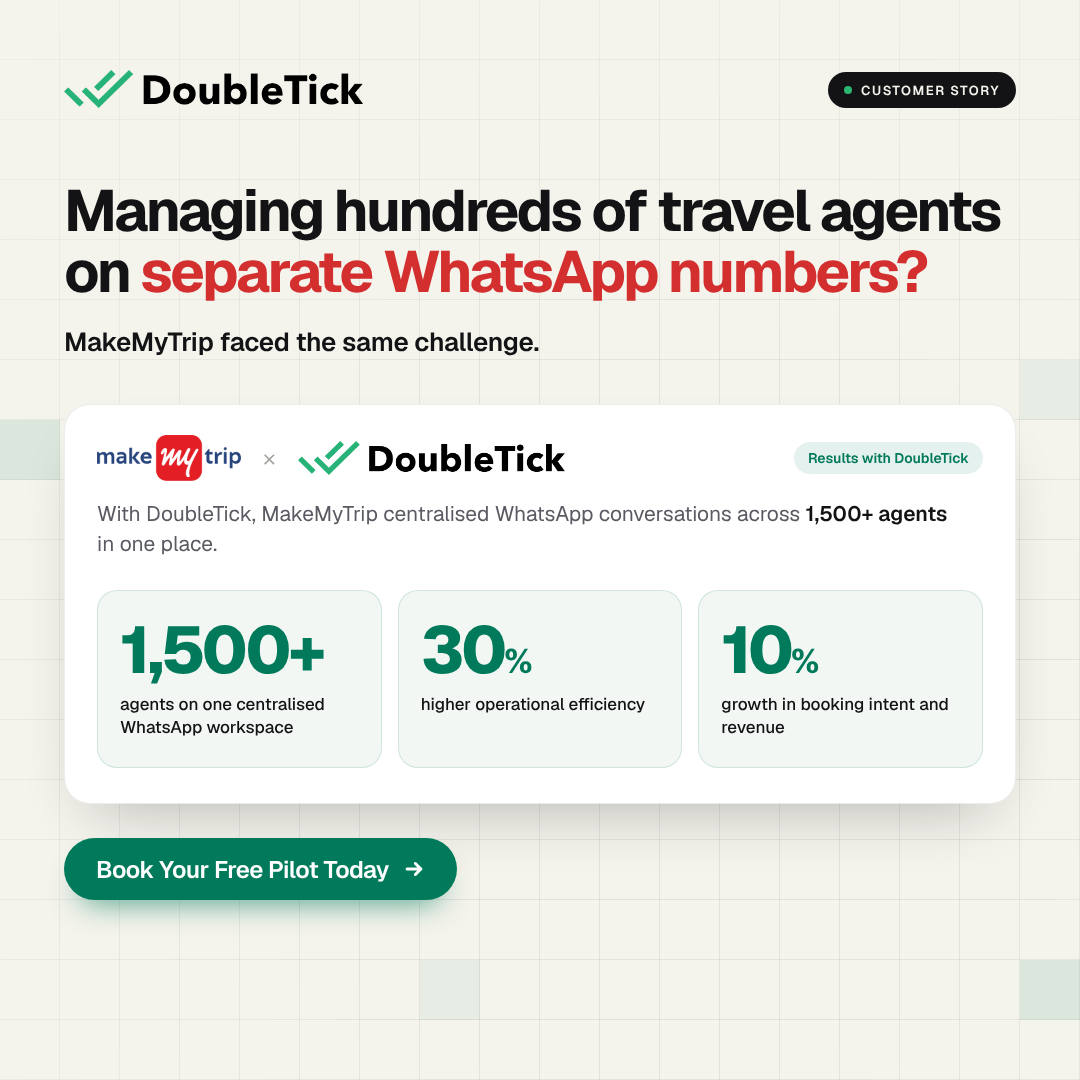
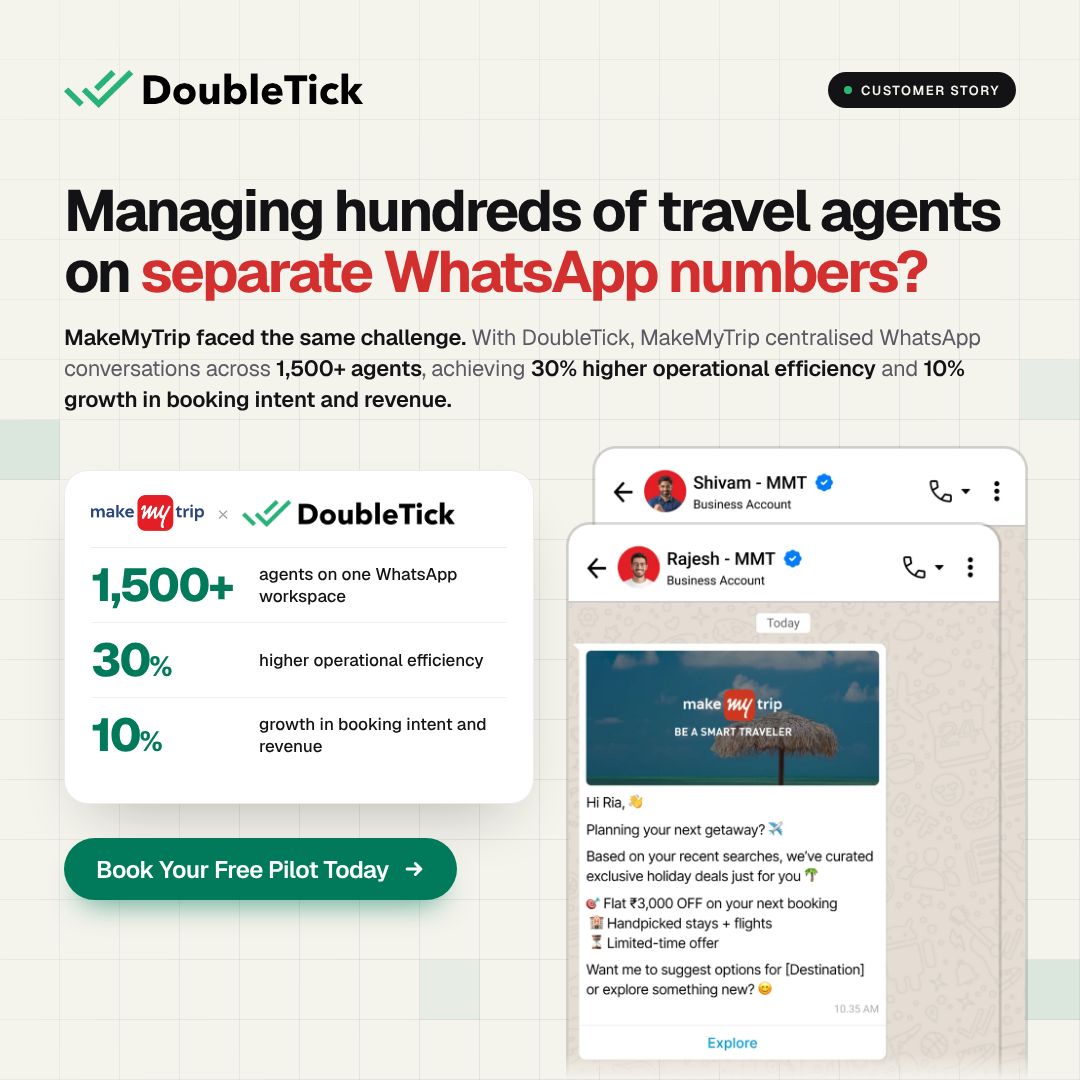
feat: MMT chat visual and new subheading in customer story ad
Claude-Session: https://claude.ai/code/session_01U68wzeZAut9FRgfZMxNXRM

Changed region(s): [[0.0611, 0.3056, 0.9778, 0.9778]]

diff --git a/ads/doubletick-mmt-case-study/index.html b/ads/doubletick-mmt-case-study/index.html
@@ -43,7 +43,7 @@
   /* ---------- copy ---------- */
   .headline { position: absolute; top: 180px; left: 64px; width: 960px; font-weight: 700; font-size: 58px; line-height: 1.06; letter-spacing: -0.045em; color: var(--ink); }
   .headline .hl { color: #D32F2F; }
-  .sub { position: absolute; top: 324px; left: 64px; width: 952px; font-size: 26px; line-height: 1.4; color: var(--ink-2); letter-spacing: -0.01em; }
+  .sub { position: absolute; top: 322px; left: 64px; width: 952px; font-size: 22px; line-height: 1.4; color: var(--ink-2); letter-spacing: -0.01em; }
   .sub b { color: var(--ink); font-weight: 600; }
 
   /* ---------- customer story pill ---------- */
@@ -51,20 +51,20 @@
   .pill i { width: 8px; height: 8px; border-radius: 50%; background: #2BB673; }
   .sub img { height: 30px; vertical-align: -7px; margin-right: 6px; }
 
-  /* ---------- results card ---------- */
-  .card { position: absolute; left: 64px; top: 404px; width: 952px; height: 400px; border-radius: 26px; background: var(--card); border: 1.5px solid rgba(19,19,22,0.08); box-shadow: 0 30px 60px -30px rgba(19,19,22,0.3); padding: 30px 32px; }
-  .lockup { display: flex; align-items: center; gap: 22px; }
-  .lockup .mmt { height: 46px; }
-  .lockup .x { font-size: 26px; color: #A3A39C; font-weight: 300; }
-  .lockup .dt { height: 34px; }
-  .lockup .tag { margin-left: auto; font-size: 14px; font-weight: 600; color: var(--green); background: var(--green-tint); padding: 7px 14px; border-radius: 999px; }
-  .story { margin-top: 18px; font-size: 21px; line-height: 1.45; color: var(--ink-2); max-width: 860px; }
-  .story b { color: var(--ink); font-weight: 600; }
-  .stats { margin-top: 30px; display: grid; grid-template-columns: repeat(3, 1fr); gap: 16px; }
-  .stat { border-radius: 20px; background: #F2F7F4; border: 1px solid rgba(0,122,90,0.14); padding: 26px 22px 28px; }
-  .stat .n { font-weight: 800; font-size: 66px; letter-spacing: -0.05em; color: var(--green); line-height: 1; }
-  .stat .n small { font-size: 34px; letter-spacing: -0.02em; }
-  .stat .l { margin-top: 10px; font-size: 17px; line-height: 1.35; color: var(--ink); font-weight: 500; }
+  /* ---------- results card (left) ---------- */
+  .card { position: absolute; left: 64px; top: 470px; width: 470px; height: 334px; border-radius: 24px; background: var(--card); border: 1.5px solid rgba(19,19,22,0.08); box-shadow: 0 30px 60px -30px rgba(19,19,22,0.3); padding: 24px 26px; }
+  .lockup { display: flex; align-items: center; gap: 14px; padding-bottom: 16px; border-bottom: 1px solid rgba(19,19,22,0.08); }
+  .lockup .mmt { height: 36px; }
+  .lockup .x { font-size: 22px; color: #A3A39C; font-weight: 300; }
+  .lockup .dt { height: 27px; }
+  .row { display: flex; align-items: center; gap: 18px; padding: 14px 0; border-bottom: 1px solid rgba(19,19,22,0.06); }
+  .row:last-child { border-bottom: 0; padding-bottom: 0; }
+  .row .n { width: 150px; flex: none; font-weight: 800; font-size: 46px; letter-spacing: -0.05em; color: var(--green); line-height: 1; }
+  .row .n small { font-size: 28px; }
+  .row .l { font-size: 17px; line-height: 1.3; color: var(--ink); font-weight: 500; }
+
+  /* ---------- MakeMyTrip chat (right, fades at bottom) ---------- */
+  .chat { position: absolute; left: 566px; top: 446px; width: 462px; z-index: 3; -webkit-mask-image: linear-gradient(to bottom, #000 0, #000 608px, transparent 634px); }
 
   /* ---------- footer ---------- */
   .footer { position: absolute; left: 64px; bottom: 180px; display: flex; align-items: center; }
@@ -87,7 +87,7 @@
 
   <!-- copy -->
   <h1 class="headline">Managing hundreds of travel agents on <span class="hl">separate WhatsApp numbers?</span></h1>
-  <p class="sub"><b>MakeMyTrip faced the same challenge.</b></p>
+  <p class="sub"><b>MakeMyTrip faced the same challenge.</b> With DoubleTick, MakeMyTrip centralised WhatsApp conversations across <b>1,500+ agents</b>, achieving <b>30% higher operational efficiency</b> and <b>10% growth in booking intent and revenue.</b></p>
 
   <!-- results -->
   <div class="card">
@@ -95,15 +95,14 @@
       <img class="mmt" src="mmt-logo.png" alt="MakeMyTrip" />
       <span class="x">×</span>
       <img class="dt" src="doubletick-logo.webp" alt="DoubleTick" />
-      <span class="tag">Results with DoubleTick</span>
     </div>
-    <p class="story">With DoubleTick, MakeMyTrip centralised WhatsApp conversations across <b>1,500+ agents</b> in one place.</p>
-    <div class="stats">
-      <div class="stat"><div class="n">1,500+</div><div class="l">agents on one centralised WhatsApp workspace</div></div>
-      <div class="stat"><div class="n">30<small>%</small></div><div class="l">higher operational efficiency</div></div>
-      <div class="stat"><div class="n">10<small>%</small></div><div class="l">growth in booking intent and revenue</div></div>
-    </div>
+    <div class="row"><div class="n">1,500+</div><div class="l">agents on one WhatsApp workspace</div></div>
+    <div class="row"><div class="n">30<small>%</small></div><div class="l">higher operational efficiency</div></div>
+    <div class="row"><div class="n">10<small>%</small></div><div class="l">growth in booking intent and revenue</div></div>
   </div>
+
+  <!-- MakeMyTrip WhatsApp chat -->
+  <img class="chat" src="mmt-chat.png" alt="" />
 
   <!-- footer -->
   <div class="footer">
